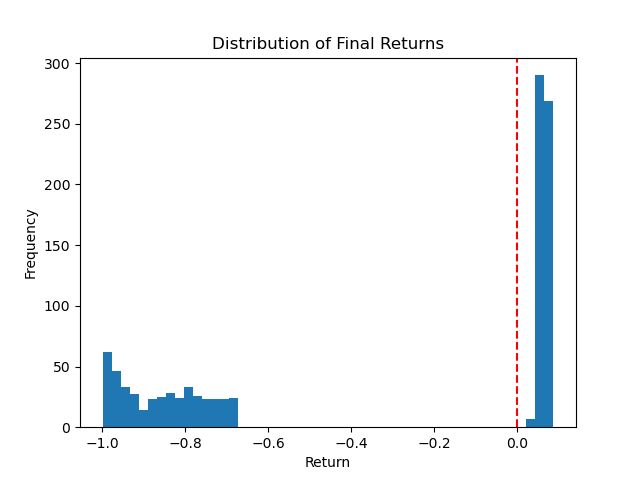
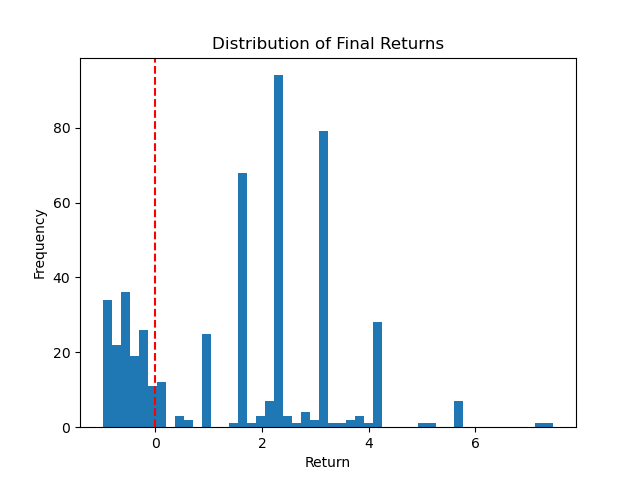
2.0

diff --git a/meme-coin-sim.py b/meme-coin-sim.py
@@ -2,10 +2,11 @@ import numpy as np
 import pandas as pd
 import matplotlib.pyplot as plt
 
-TIME_STEPS = 200
-N_RUNS = 500
+TIME_STEPS = 500
+N_RUNS = 1000
 INITIAL_LIQUIDITY = 1_000
 INITIAL_PRICE = 1.0
+TOTAL_MARKET_CAPITAL = 50_000_000
 
 ALPHA_BUYERS = 4.0
 AVG_BUY_SIZE = 250
@@ -14,6 +15,7 @@ SELL_BASE_PROB = 1.0
 np.random.seed(42)
 
 def generate_hype_series():
+
     hype_series = []
     hype = 1.0  # starting hype
 
@@ -21,12 +23,18 @@ def generate_hype_series():
         # random walk with slight decay
         #change = np.random.normal(0, 0.05)
 
-        # for meme instead of walk:
-        if np.random.rand() < 0.02: #2% chance of change
-            change = np.random.normal(3.0, 1.0)
+        # rare viral event
+        if np.random.rand() < 0.03: #2% chance of change
+            change = np.random.normal(2.0, 0.8)
+        # tormal drift
         else:
-            change = np.random.normal(-0.02, 0.08)
-        hype = max(hype + change, 0.1)
+            change = np.random.normal(-0.005, 0.05)
+
+        hype += change
+
+        # gentaly decay
+        hype *= 0.995
+
         hype_series.append(hype)
 
     return hype_series 
@@ -37,6 +45,7 @@ def run_single_sim():
     price_series = []
     hype_series = generate_hype_series()
     price = INITIAL_PRICE
+    remaining_capital = TOTAL_MARKET_CAPITAL
 
     for t in range(TIME_STEPS):
         hype = hype_series[t]
@@ -45,21 +54,32 @@ def run_single_sim():
             price_momentum = (price_series[-1] - price_series[-2]) / price_series[-2]
         else:
             price_momentum = 0
-        hype += 30 * max(price_momentum, 0)
+        #hype += 15 to 100
+        hype += 80 * max(price_momentum, 0)
 
-        n_buyers = np.random.poisson(ALPHA_BUYERS * hype*1.5)
+        # clamp
+        hype = max(hype, 0.1)
+        hype = min(hype, 50)
 
-        buy_volume = 0
-        for _ in range(n_buyers):
-            size = np.random.lognormal(
-                mean=np.log(AVG_BUY_SIZE),
-                sigma=0.6
-            )
-            buy_volume += size
-            holders.append({
-                "entry_price": price,
-                "entry_time": t
-            })
+        price_series.append(price)
+
+        n_buyers = np.random.poisson(ALPHA_BUYERS * (hype ** 3))
+
+        expected_volume = n_buyers * AVG_BUY_SIZE
+
+        buy_volume = np.random.lognormal(
+            mean=np.log(max(expected_volume, 1)),
+            sigma=0.6
+        )
+
+        buy_volume = min(buy_volume, remaining_capital)
+        remaining_capital -= buy_volume
+
+        holders.append({
+            "entry_price": price,
+            "entry_time": t
+        })
+            
         
         sell_volume = 0
         remaining_holders = []
@@ -68,7 +88,7 @@ def run_single_sim():
             hype_slope = 0
         else:
             hype_slope = hype_series[t] - hype_series[t-1]
-        sell_prob = SELL_BASE_PROB + 1.2 * max(0, -hype_slope)
+        sell_prob = min(0.05 + 0.0005*t + 1.2 * max(0, -hype_slope), 0.5)
 
         for h in holders:
             if np.random.rand() < sell_prob:
@@ -79,9 +99,17 @@ def run_single_sim():
         holders = remaining_holders
 
         net_flow = buy_volume - sell_volume
-        impact = net_flow / max(liquidity, 1)
-        #price impact can be chaneged between 0.01 and 0.15
-        price *= np.exp(impact * 0.08)
+        effective_liquidity = liquidity ** 0.7 # sublinear depth
+        impact = net_flow / max(effective_liquidity, 1)
+
+        # clamp impact to realistic bounds
+        impact = np.clip(impact, -2, 2)
+        price *= np.exp(impact * 0.12)
+
+        #rare whale
+        if np.random.rand() < 0.01:
+            whale_buy = np.random.uniform(10_000, 100_000)
+            buy_volume += whale_buy
 
         #rug pull
         if np.random.rand() < 0.002:
@@ -89,9 +117,10 @@ def run_single_sim():
             liquidity *= 0.2
 
         liquidity += buy_volume - sell_volume
-        liquidity = max(liquidity, 50)
+        liquidity = max(liquidity, 500)
 
         price_series.append(price)
+        price = min(price, 1_000_000)  # prevent numeric insanity
 
     return price_series, hype_series
 
@@ -114,6 +143,7 @@ all_peaks, final_returns = run_simulation()
 
 print("Monte Carlo results")
 print("-------------------")
+print(f"Time steps: {TIME_STEPS}")
 print(f"Runs: {N_RUNS}")
 print(f"Median peak multiple: {np.median(all_peaks):.2f}x")
 print(f"Max peak multiple: {np.max(all_peaks):.2f}x")
@@ -121,6 +151,7 @@ print(f"95th percentile peak multiple: {np.percentile(all_peaks, 95):.2f}x")
 print(f"Mean final return: {np.mean(final_returns)*100:.2f}%")
 print(f"Median final return: {np.median(final_returns)*100:.2f}%")
 print(f"% profitable runs: {(np.array(final_returns) > 0).mean()*100:.1f}%")
+print(f"Creator Profit: {1000*np.max(all_peaks):.2f}")
 
 plt.hist(final_returns, bins=50)
 plt.axvline(0, color="red", linestyle="--")
